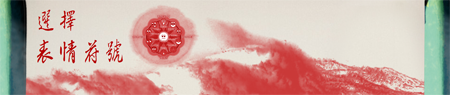
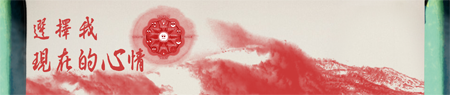
1. change Chinese description of emotion button to "選擇我現在的心情" 2. add cluster marker

Changed region(s): [[0.0622, 0.1053, 0.3422, 0.7579]]

diff --git a/ANTrip/assets/lib/js/GetTripFromID.js b/ANTrip/assets/lib/js/GetTripFromID.js
@@ -87,6 +87,7 @@
 					'strokeWeight': 4, 
 					'path': g_tripPointArray
 				});
+				self.set('MarkerClusterer', new MarkerClusterer(map, self.get('markers')));
 				$('#map_canvas').gmap('refresh');
 				$("#overlay").css("display","none");
 				$("#overlay").html("");

diff --git a/ANTrip/assets/lib/js/MapRecorder.js b/ANTrip/assets/lib/js/MapRecorder.js
@@ -242,6 +242,7 @@
 
 					marker.setMap(self);
 					g_tripPointObjArray_2.push(marker);
+					var markerCluster = new MarkerClusterer(self, g_tripPointObjArray_2);
 				}
 				if( $('#markplacewindow').is(":visible") == false) {
 					$("#overlay").css("display","none");
